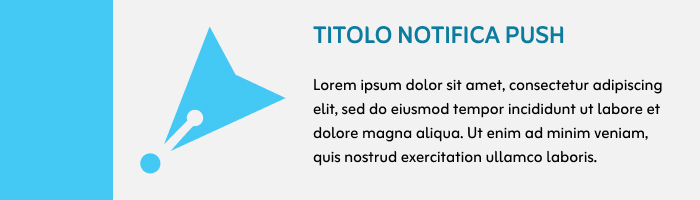
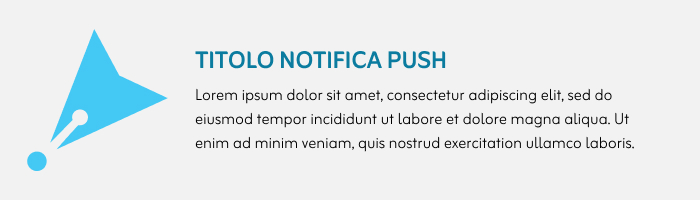
Aggiunte notifiche push

Changed region(s): [[0.0, 0.0, 0.96, 1.0]]

diff --git a/Codice/Paper Review/src/main/resources/com/paperreview/paperreview/boundaries/notification/notificationStyle.css b/Codice/Paper Review/src/main/resources/com/paperreview/paperreview/boundaries/notification/notificationStyle.css
@@ -1,0 +1,17 @@
+.notification-box {
+    -fx-border-radius: 5;
+    -fx-background-radius: 5;
+    -fx-effect: dropshadow(three-pass-box, rgba(0,0,0,0.2), 5, 0, 0, 2);
+    -fx-padding: 5;
+}
+
+.notification-title {
+    -fx-font-size: 16px;
+    -fx-font-weight: bold;
+    -fx-text-fill: #0B7C9F !important;
+}
+
+.notification-text {
+    -fx-font-size: 13px;
+    -fx-text-fill: #333;
+}

diff --git a/Codice/Paper Review/src/main/java/com/paperreview/paperreview/common/NotificaPush.java b/Codice/Paper Review/src/main/java/com/paperreview/paperreview/common/NotificaPush.java
@@ -1,0 +1,39 @@
+package com.paperreview.paperreview.common;
+
+import com.paperreview.paperreview.gestioneNotifiche.controls.NotificaPushControl;
+import javafx.fxml.FXMLLoader;
+import javafx.scene.Node;
+import org.controlsfx.control.Notifications;
+
+public class NotificaPush {
+
+    private final String titleText;
+    private final String contentText;
+
+    public NotificaPush(String titleText, String contentText) {
+        this.titleText = titleText;
+        this.contentText = contentText;
+    }
+
+    public void show() {
+        try {
+            FXMLLoader loader = new FXMLLoader(getClass().getResource(
+                    "/com/paperreview/paperreview/boundaries/notification/notificationBoundary.fxml"));
+
+            Node content = loader.load();
+
+            NotificaPushControl controller = loader.getController();
+            controller.setTitle(titleText);
+            controller.setMessage(contentText);
+
+            Notifications.create()
+                    .graphic(content)
+                    .hideAfter(javafx.util.Duration.seconds(5))
+                    .position(javafx.geometry.Pos.BOTTOM_RIGHT)
+                    .show();
+
+        } catch (Exception e) {
+            throw new RuntimeException("Errore nella visualizzazione della notifica", e);
+        }
+    }
+}

diff --git a/Codice/Paper Review/src/main/java/com/paperreview/paperreview/gestioneNotifiche/controls/NotificaPushControl.java b/Codice/Paper Review/src/main/java/com/paperreview/paperreview/gestioneNotifiche/controls/NotificaPushControl.java
@@ -1,0 +1,28 @@
+package com.paperreview.paperreview.gestioneNotifiche.controls;
+
+import javafx.fxml.FXMLLoader;
+import javafx.scene.Node;
+import org.controlsfx.control.Notifications;
+
+import javafx.fxml.FXML;
+import javafx.scene.control.Label;
+
+public class NotificaPushControl {
+
+    @FXML
+    private Label titleLabel;
+
+    @FXML
+    private Label messageLabel;
+
+    public void setTitle(String title) {
+        titleLabel.setText(title);
+    }
+
+    public void setMessage(String message) {
+        messageLabel.setText(message);
+    }
+
+
+
+}
